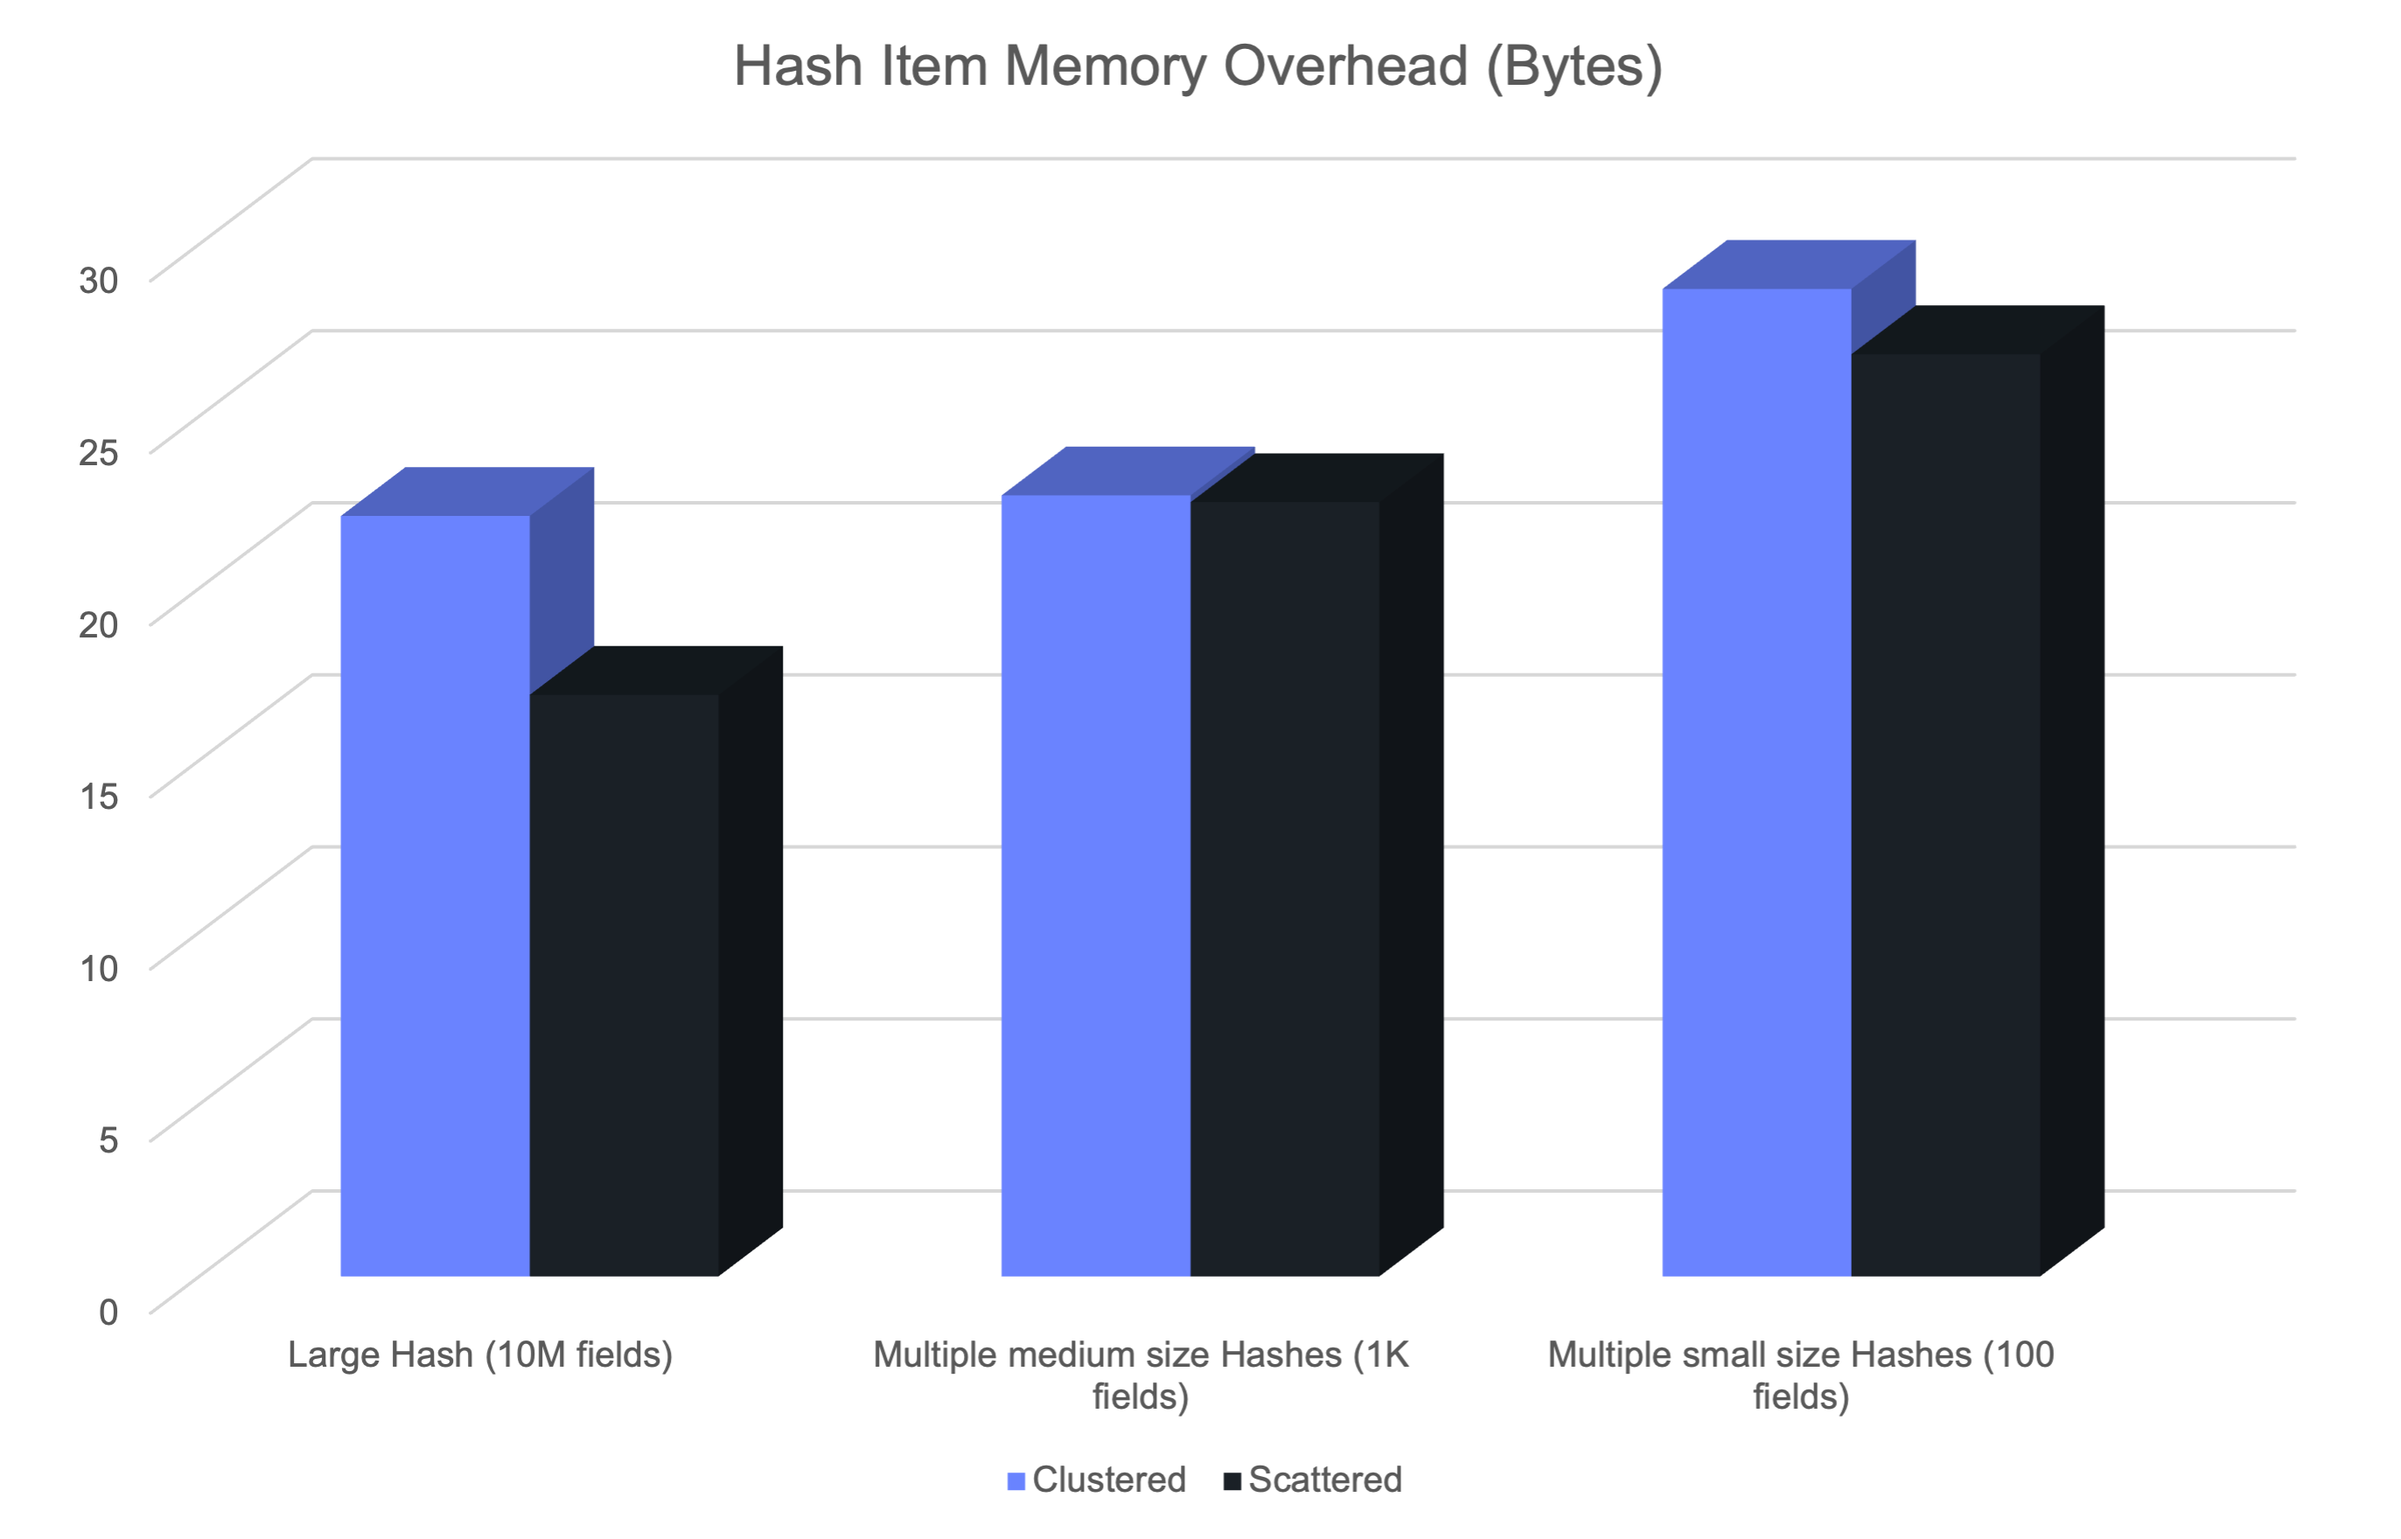
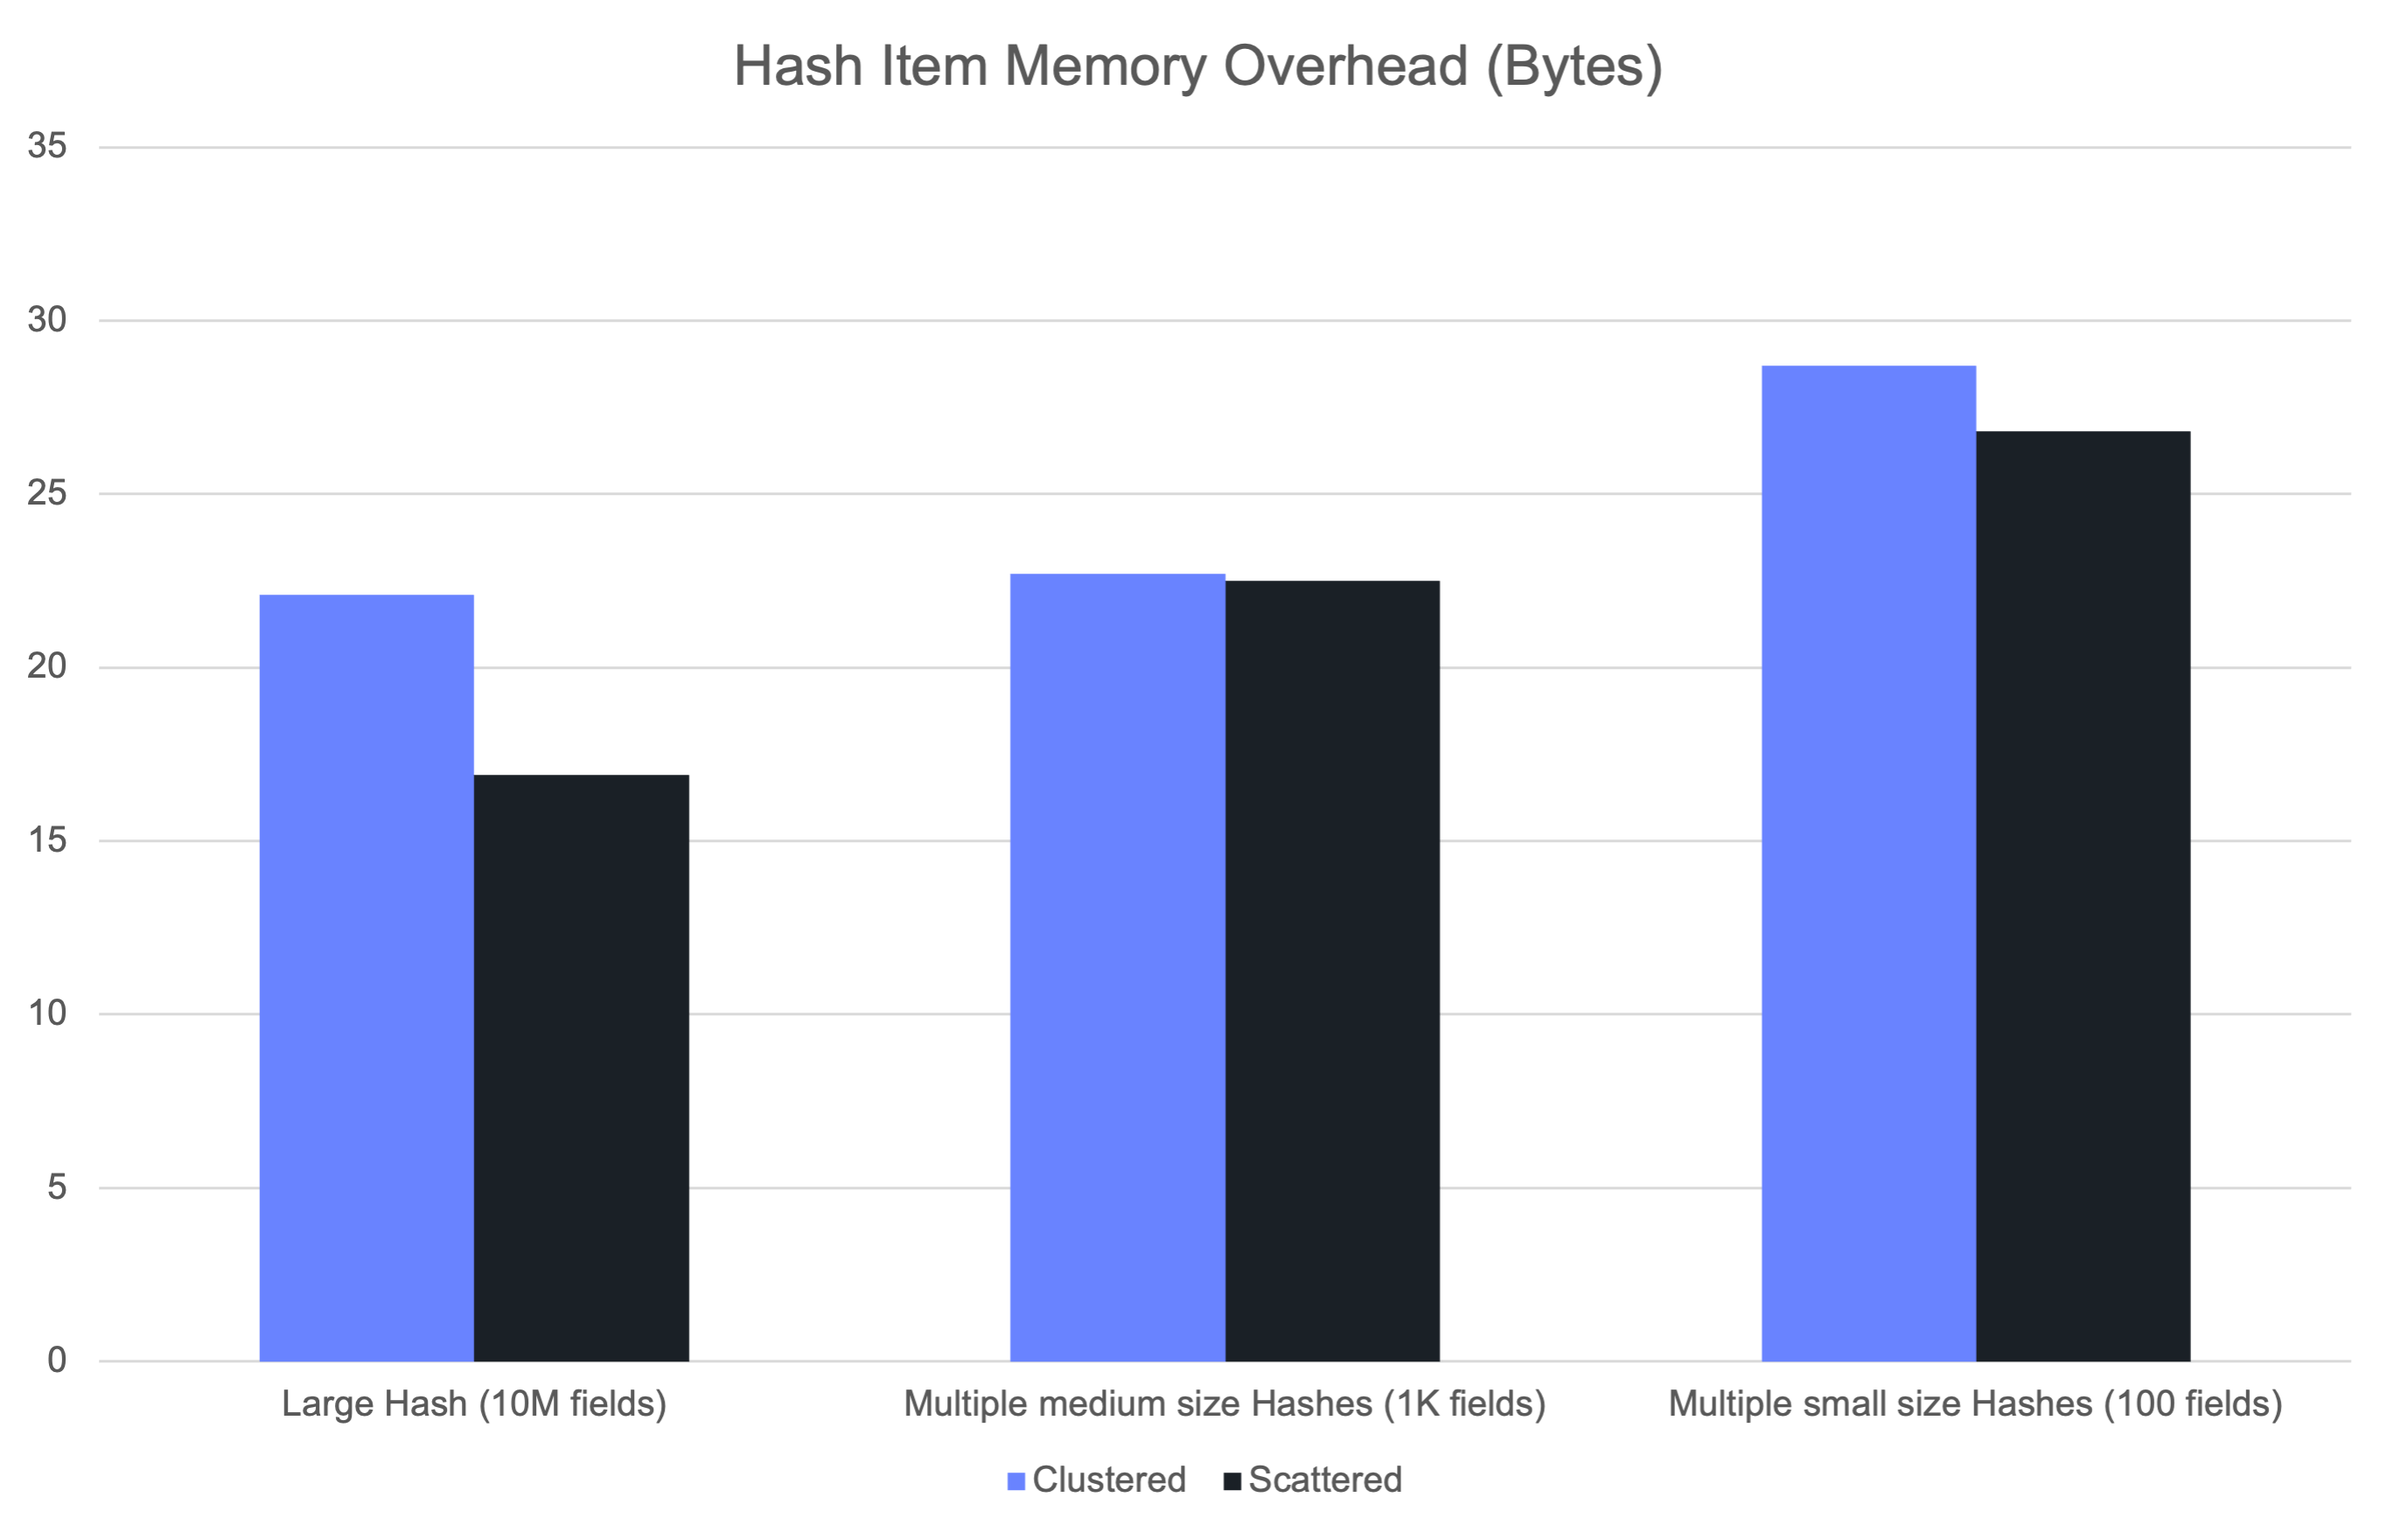
1. reduce dimension of charts 2. fix section headers

diff --git a/content/blog/2025-09-15-hash-fields-expiration/index.md b/content/blog/2025-09-15-hash-fields-expiration/index.md
@@ -28,7 +28,7 @@ hurting memory efficiency and increasing overhead for operations.
 
 The inability to set different TTLs per field meant developers either built complex cleanup processes outside of Valkey, or gave up flexibility in how expirations were handled.
 
-## Technical Challenges and Design Alternatives
+## Finding the Right Expiration Model
 
 At first glance, adding field expirations might sound like a simple matter of storing timestamps per field.
 In order to understand the problem, it’s important to understand how expiration is normally handled in Valkey today.
@@ -55,11 +55,11 @@ The challenge is balancing three conflicting goals:
 
 * **Reclaim memory efficiently.** The active expiration job is time-bounded, so we need to minimize wasted CPU cycles spent scanning unexpired fields.
 
-## Alternatives Considered
+### Alternatives Considered
 
 We explored several approaches:
 
-### 1. Secondary hashtable per field expiration
+#### 1. Secondary hashtable per field expiration
 
 This seemed simple: build a secondary hashtable in each Hash object which maps only volatile fields.
 
@@ -69,7 +69,7 @@ This is actually the way volatile generic keys are being tracked. Per each datab
 During active expiration process the existing job scan the secondary map and each key found to pass it's assigned TTL is expired and it's memory is reclaimed.
 The problem with this design option is the potential inefficiency introduced while scanning many items which should not expire.
 
-### 2. Radix Tree-based index
+#### 2. Radix Tree-based index
 
 Using a radix tree to hold field names plus expirations provides sorted access for free.
 
@@ -80,7 +80,7 @@ like [`BLPOP`](/commands/blpop/) and [`XREAD`](/commands/xread/).
 
 But the memory overhead per node was high. During experiments we measured more than 54 bytes overhead per each hash field when using this type of index.
 
-### 3. Global sorted structure
+#### 3. Global sorted structure
 
 We wanted to have the ability to efficiently scan over fields which are already expired. A good way to achieve this is by using a sorted index.
 Using a radix tree was possible, but the memory overhead was high. Instead we could use a more lightweight data structure like a skip list, which memory consumption is more bounded
@@ -90,7 +90,7 @@ and is not governed by the data atrophy.
 
 However, This would give `O(log N)` access to the index which did not work well with our target to keep hash operations constant time complexity.
 
-## Coarse Buckets with Adaptive Encoding
+### Coarse Buckets with Adaptive Encoding
 
 Instead of tracking every field’s expiration individually, we designed a coarse bucket system.
 Each field’s timestamp is mapped into a time bucket, represented by a shared “end timestamp.”
